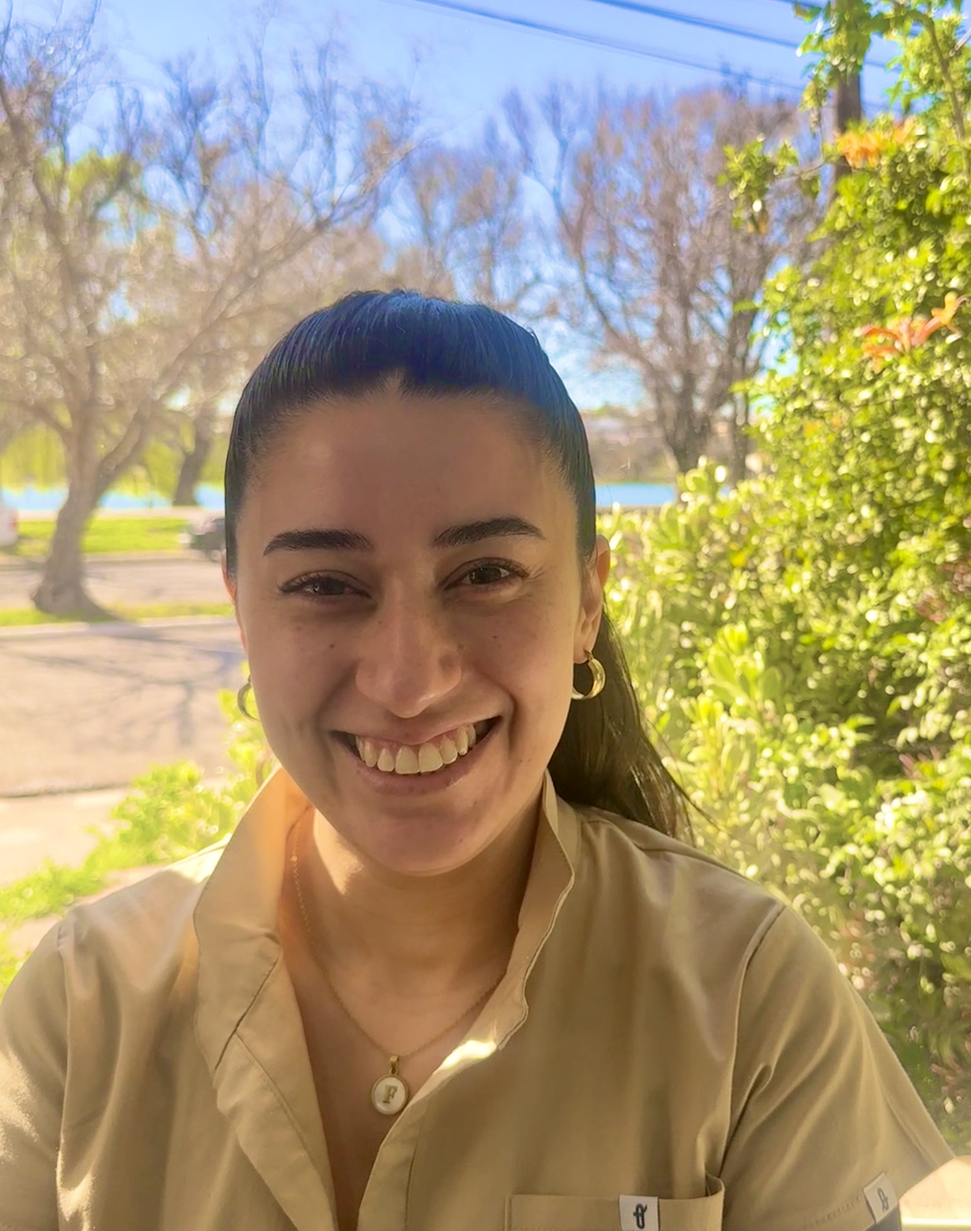
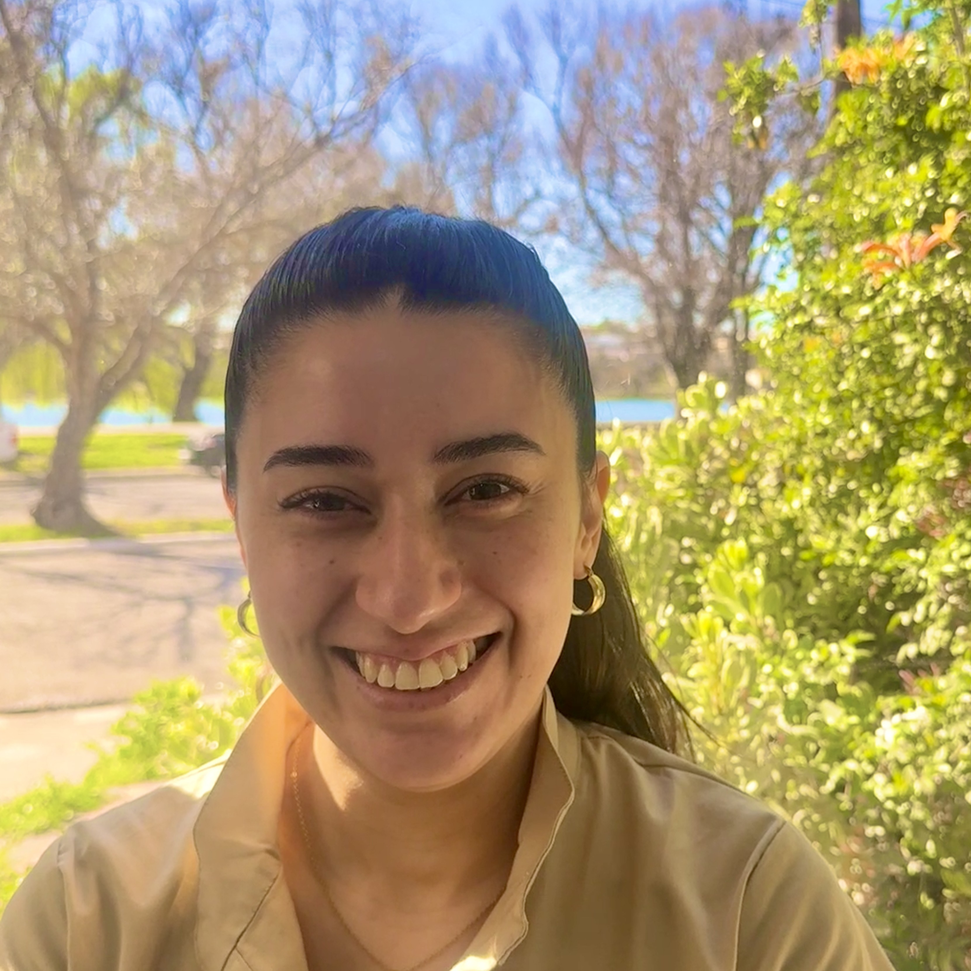
Trabaje sobre los estilos en el hero y en acerca de mi en el index.html

diff --git a/assets/css/estilos.css b/assets/css/estilos.css
@@ -1,12 +1,71 @@
-/** Estilos generales **/
+:root {
+    --main-c:#2977d5;
+    --border-r:1.2rem;
+}
 
-/* ... tus estilos existentes ... */
+/* Estilos generales */
 
-/* estilos.css */
+html * {
+    margin: 0;
+    padding: 0;
+    font-family: 'Segoe UI', Tahoma, Geneva, Verdana, sans-serif;
+}
+
+p {
+    font-size: 1.1rem;
+}
+
+a {
+    text-decoration: none;
+}
+
+ul, li {
+    list-style: none;
+}
+
+.wrap-cta {
+    padding: 1.5rem 0;
+}
+
+.cta-a {
+    color: #fff;
+    font-weight: bold;
+    font-size: 1.2rem;
+    background-color: var(--main-c);
+    padding: 0.5rem 1rem;
+    border-radius: var(--border-r);
+}
+
+h1 {
+    font-size: 2.8rem;
+}
+
+h2 {
+    font-size: 2.5rem;
+}
+
+h3 {
+    font-size: 2.2rem;
+}
+
+h4 {
+    font-size: 1.9rem;
+}
+
+h5 {
+    font-size: 1.6rem;
+}
+
+h6 {
+    font-size: 1.3rem;
+}
+
+
+/* Header */
 
 /* Mantener el logo responsive y con un límite de tamaño */
 .logo-header {
-    max-width: 250px; /* Un poco más pequeño, 300px puede ser grande en móvil */
+    max-width: 250px;
     height: auto;
     width: 100%;
     border-radius: 10px;
@@ -18,6 +77,111 @@ img {
     height: auto; /* Mantiene la proporción */
 }
 
+/* 1. Estilo base (el color del enlace antes del hover) */
+.navbar-nav .nav-link {
+    /* Define el color base de los enlaces para consistencia */
+    color: #000000; /* Ejemplo: Negro */
+    /* Agrega una transición suave para el efecto hover */
+    transition: color 0.3s ease-in-out, border-bottom 0.3s ease-in-out; 
+}
+
+/* 2. Estilo al pasar el cursor (HOVER) */
+.navbar-nav .nav-link:hover {
+    /* Cambiar color al pasar el ratón */
+    color: #2977d5; /* Ejemplo: Azul de Bootstrap */
+    /* Opcional: Añadir una línea inferior para un efecto más moderno */
+    border-bottom: 2px solid #2977d5;
+    /* Ajustar padding para compensar la línea inferior */
+    padding-bottom: 6px !important; 
+}
+
+/* 3. Opcional: Estilo para el enlace ACTIVO (la página en la que estás) */
+/* Usa una clase adicional en el <li> o <a> de la página activa si la tienes */
+.navbar-nav .nav-item .active {
+    color: #2977d5; /* Color azul para indicar la página actual */
+    font-weight: bold; /* Hacer el texto negrita */
+}
+
+/* Banner */
+
+.hero-section {
+    height: 70vh;
+    background: url(/assets/img/image6.1.2.jpeg);
+    background-position: center;
+    background-repeat: no-repeat;
+    background-size: cover;
+    background-color: #616161;
+    background-blend-mode: multiply;
+    display: flex;
+    align-items: center;
+}
+
+.wrap-hero-section {
+    color: #fff;
+    padding: 10%;
+}
+
+/* ======================================================= */
+/* SECCIÓN "ACERCA DE MI" - BASADA EN BOOTSTRAP GRID */
+/* ======================================================= */
+
+.two-column-section {
+    padding: 40px 15px;
+    max-width: 1200px;
+    margin: 0 auto;
+}
+
+/* Mejora Estética: Título */
+.wrap-title-section h2 {
+    text-align: center;
+    margin-bottom: 40px; /* Más espacio */
+    font-weight: 700; /* Título más audaz */
+}
+
+/* Mejora Estética: Estilos de la IMAGEN (Aplica al img-fluid) */
+/* Selector para el contenedor de la imagen en Index (el col-12) */
+.two-column-section .col-md-6 img {
+    /* Estas reglas son NECESARIAS ya que la clase rounded-circle solo da border-radius */
+    display: block;
+    width: 100%;
+    height: auto;
+    object-fit: cover;
+    aspect-ratio: 1 / 1; /* ¡Fundamental para el círculo perfecto! */
+    
+    /* MEJORA: Añadir una sombra al círculo para un efecto 3D */
+    box-shadow: 0 5px 15px rgba(0, 0, 0, 0.2); 
+}
+
+/* Mejora Estética: Contenido de Texto */
+.wrap-text-column h3 {
+    padding: 0 0 1rem 0;
+    margin: 0;
+    color: var(--main-c); /* Usa el color principal de tu marca */
+}
+
+.wrap-text-column p {
+    padding-bottom: 1rem;
+    line-height: 1.6; /* Mejora la legibilidad */
+    color: #444; /* Color de texto más suave */
+}
+
+/* ⚠ REGLAS ELIMINADAS/IGNORADAS: 
+   Las siguientes reglas fueron ignoradas porque no tienes el contenedor 
+   .wrap-two-column en tu index.html. Las estamos eliminando de tu CSS para evitar confusión.
+
+.wrap-two-column { ... }
+.wrap-img_two-column { ... }
+.wrap-img_two-column:nth-child(2) { ... }
+*/
+
+
+
+
+
+
+
+
+
 /* Si quieres que los "cards" de tratamientos se vean bien */
 .item-tratamientos-section {
     display: block; /* Asegura que el enlace ocupe todo el espacio de la columna */
@@ -28,6 +192,8 @@ img {
 .item-tratamientos-section:hover {
     transform: translateY(-5px); /* Pequeño efecto al pasar el mouse */
 }
+
+
 
 /* Ejemplo en tu archivo estilos.css */
 

diff --git a/assets/js/header.js b/assets/js/header.js
@@ -1,20 +1,54 @@
 // /assets/js/header.js
 
+function resaltarEnlaceActivo() {
+    // 1. Obtener la ruta de la página actual (ej. /pages/acercademi.html)
+    // Se usa 'pathname' que retorna la parte de la URL sin el dominio ni parámetros.
+    let rutaActual = window.location.pathname;
+
+    // Si estás en la raíz (index.html), window.location.pathname puede ser solo '/',
+    // lo ajustamos para que coincida con el href:
+    if (rutaActual === '/') {
+        rutaActual = '/index.html';
+    }
+    // Para cualquier página en /pages/ (ej. /pages/acercademi.html) se buscará la coincidencia.
+    
+    // 2. Iterar sobre todos los enlaces de navegación
+    const enlaces = document.querySelectorAll('.navbar-nav .nav-link');
+    
+    enlaces.forEach(enlace => {
+        // Obtenemos el atributo href de cada enlace y lo normalizamos
+        const hrefEnlace = enlace.getAttribute('href').toLowerCase();
+        
+        // 3. Comparar la ruta actual con el href del enlace
+        if (rutaActual.includes(hrefEnlace)) {
+            // Eliminar cualquier 'active' previo (aunque el forEach es suficiente si no hay errores)
+            // enlace.classList.remove('active');
+            
+            // 4. Agregar la clase 'active' al enlace correspondiente
+            enlace.classList.add('active');
+            // Opcional: Agregar la clase 'active' también al <li> padre (si lo necesita Bootstrap o CSS)
+            enlace.closest('.nav-item').classList.add('active'); 
+        } else {
+             // Opcional: Asegurarse de quitar 'active' de otros enlaces
+            enlace.classList.remove('active');
+            enlace.closest('.nav-item').classList.remove('active');
+        }
+    });
+}
+
+
 document.addEventListener('DOMContentLoaded', () => {
-    // Definimos la ruta de manera concisa.
-    const headerPath = '/includes/header.html'; // Asegúrate de que esta ruta sea correcta
+    const headerPath = '/includes/header.html'; 
     const headerContainer = document.getElementById('header-container');
 
     if (!headerContainer) {
         console.warn('El contenedor del encabezado (<div id="header-container"></div>) no fue encontrado.');
-        return; // Salir si el contenedor no existe
+        return; 
     }
 
-    // Usar fetch para obtener el contenido
     fetch(headerPath)
         .then(response => {
             if (!response.ok) {
-                // Lanza un error más específico si el archivo no se encuentra (404)
                 throw new Error(`Error ${response.status}: No se pudo cargar el archivo ${headerPath}`);
             }
             return response.text();
@@ -22,13 +56,11 @@ document.addEventListener('DOMContentLoaded', () => {
         .then(htmlContent => {
             // Inserta el HTML en el contenedor
             headerContainer.innerHTML = htmlContent;
-            // Opcional: Agregar console.log para verificar
-            // console.log('Header cargado exitosamente.'); 
+            
+            // ¡IMPORTANTE! Llamar a la función después de que el HTML ha sido insertado
+            resaltarEnlaceActivo(); 
         })
         .catch(error => {
             console.error('⚠ Error en la carga del Header:', error.message);
-            // Opcional: Insertar un mensaje de fallback en la página
-            // headerContainer.innerHTML = '<h1>Error al cargar el menú de navegación.</h1>';
         });
 });
-

diff --git a/index.html b/index.html
@@ -40,7 +40,7 @@
             <div class="container">
                 <div class="row align-items-center">
                     <div class="col-12 col-md-6 mb-4 mb-md-0">
-                        <img src="/assets/img/IMG_7293.JPEG" alt="" class="img-fluid rounded shadow">
+                        <img src="/assets/img/IMG_7293.JPEG" alt="" class="img-fluid rounded-circle shadow">
                     </div>
 
                     <div class="col-12 col-md-6">
